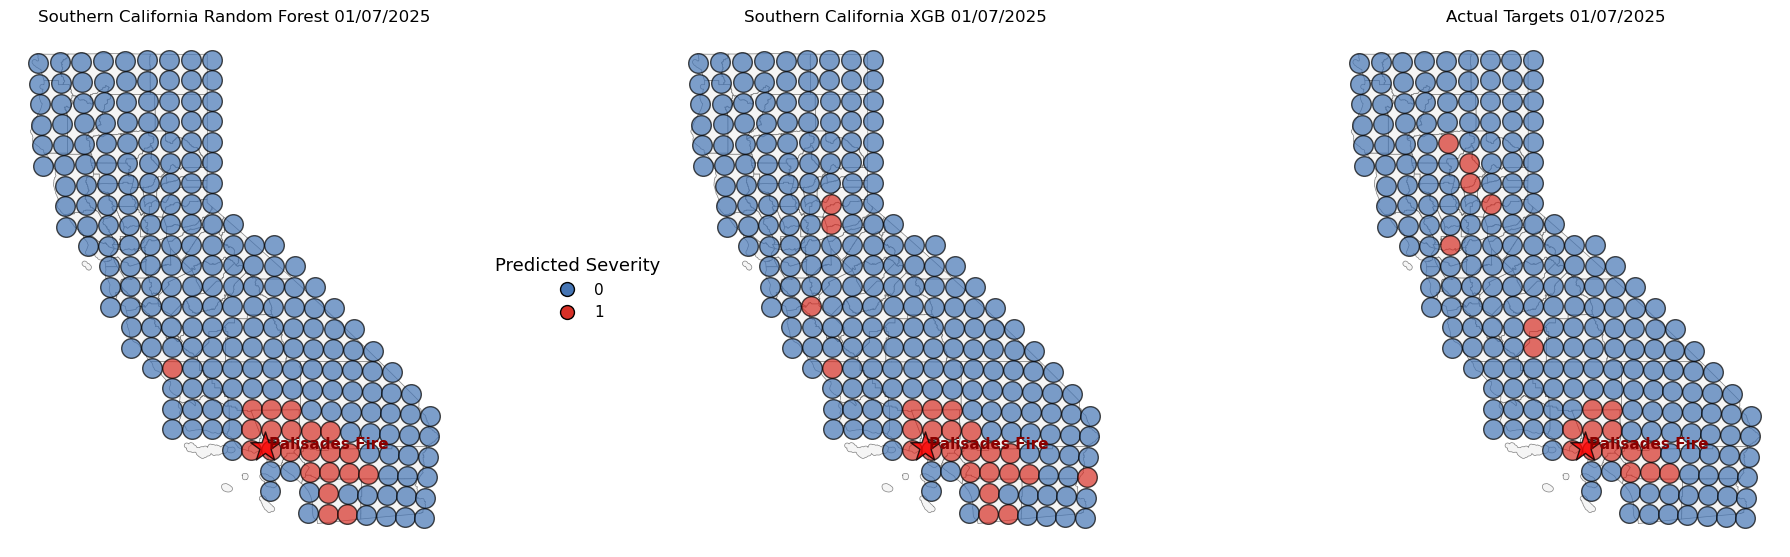
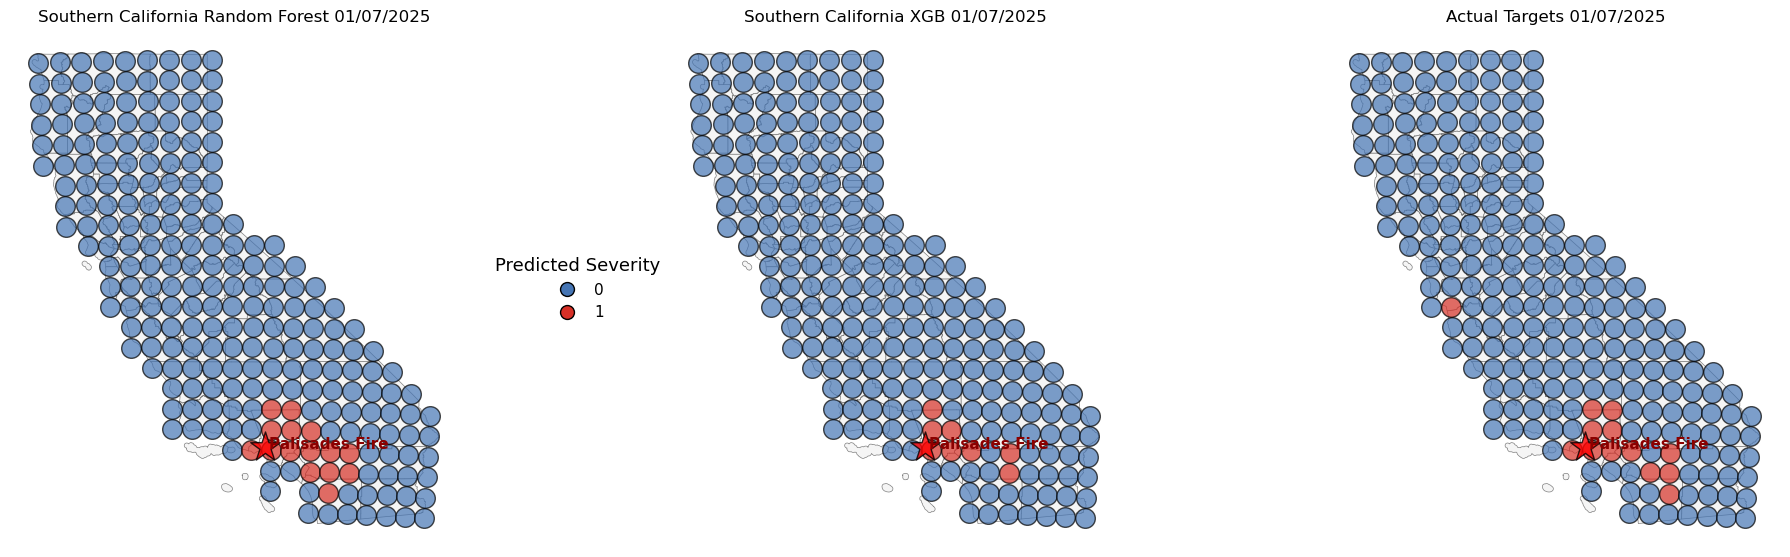
updating notes

diff --git a/README.md b/README.md
@@ -485,9 +485,9 @@ The sampling grid serves as the spatial framework for analysis. Each grid captur
 > - [*notebooks/05_Subset_and_Split.ipynb*](https://github.com/dustinlit/California_Fire_Severity/blob/main/notebooks/05_%20Subset_and_Split.ipynb)
 > - [*notebooks/06_A_Fire_Ignition_Tuning.ipynb*](https://github.com/dustinlit/California_Fire_Severity/blob/main/notebooks/06_A_Fire_Ignition_Tuning.ipynb)
 
-To avoid temporal leakage, tuning is performed with a temporal split of data. Automatic functions use the macro (F1) to adjust for the best model performance. Ultimately, parameters are selected that best balance model and hardware performance.
+To avoid temporal leakage, tuning is performed with a temporal split of data. Automatic functions use the macro (F1) metric to adjust for the best model performance. Ultimately, parameters are selected that best balance model and hardware performance.
 
-<figure> <img src="reports/readme/xgb_learning_rate.png" alt="A description" width="400"> <figcaption><em>Figure 4: XGBoost learning rate hypertuning</em></figcaption> </figure>
+<figure> <img src="reports/readme/xgb_learning_rate.png" alt="A description" width="400"> <figcaption><em>Figure 4: XGBoost learning rate hypertuning results</em></figcaption> </figure>
 
 **Models tested:**
 - `Random Forest` from scikit-learn
@@ -502,24 +502,25 @@ To avoid temporal leakage, tuning is performed with a temporal split of data. Au
 
 **Key Findings:** 
 - the models are quite good at reliably identifying **low‑risk** grids, largely because the patterns associated with 'no wildfire activity' are abundant, consistent, and easy for algorithms to learn.
+- XGBoost currently overfitting the target value.
 
-<figure> <img src="reports/readme/ignition_evaluation.png" alt="A description" width="600"> <figcaption><em>Figure 5: Model metrics of test set</em></figcaption> </figure>
+<figure> <img src="reports/readme/ignition_evaluation.png" alt="A description" width="800"> <figcaption><em>Figure 5: Model metrics of test set</em></figcaption> </figure>
 
 ## SHAP Feature Influence
 *Located in:* 
 > - [*notebooks/08_B_Fire_Ignition_Feature_Ablation.ipynb*](https://github.com/dustinlit/California_Fire_Severity/blob/main/notebooks/08_B_Fire_Ignition_Feature_Ablation.ipynb)
 
-<figure> <img src="reports/readme/ignition_features.png" alt="A description" width="600"> <figcaption><em>Figure 6: Top feature importance rankings</em></figcaption> </figure>
+<figure> <img src="reports/readme/ignition_features.png" alt="A description" width="600"> <figcaption><em>Figure 6: Top feature importance rankings by model</em></figcaption> </figure>
 
 
 ## Case Study Visualization
 
 ### **Wildfire *Ignition* Predictions:**
 
-<figure> <img src="reports/readme/ignition_predictions.png" alt="A description" width="600"> <figcaption><em>Figure 7: Tree model wildfire ignition predictions compared to target results</em></figcaption> </figure>
+<figure> <img src="reports/readme/ignition_predictions.png" alt="A description" width="1000"> <figcaption><em>Figure 7: Tree model wildfire ignition predictions compared to target results on 01/07/2025</em></figcaption> </figure>
 
-- **Wildland Urban Interface**, **Humans**, **Infrastructure** features contribute the most in both fire ignition models.
-- **1000-hour Dead Fuel Moisture** is the highest performing weather feature. Dryness is the driving factor for ignition.
+- The intersection of **Wildland Urban Interface** and **Infrastructure** features contribute the most in both fire ignition models.
+- **1000-hour Dead Fuel Moisture** is the highest performing weather feature. Long term dryness is the main driving factor for ignition.
 
 
 ## Limitations
@@ -536,18 +537,38 @@ While all core features were retrieved from official sources, some engineered an
 ### Personal Project
 This project is a personally developed learning effort and may contain statistical inaccuracies. While every attempt has been made to apply sound analytical practices, there are inevitably areas where my current knowledge is still developing. The goal is to refine these skills and improve methodological rigor as the project evolves.
 
-## Philosophy
+## Challenges
+### Heavy Class Imbalance 
+Even in California, total days with wildfire events are rare compared to the number of days with no significant events. The low risk class composes the overwhelming majority of the total data points. Ignition events only compose **7%** of the 600,000+ grid readings.
+### Messy Real World Data 
+You don’t have to get far from clean, well‑curated datasets before you run into the real messiness of actual data. Agencies do solid work organizing what they need, but connecting all those pieces is another challenge. You end up dealing with big gaps, missing or low‑resolution spatial info, and the occasional random error that throws everything off. Some days it feels like a data rodeo and sometimes the bull wins.
+### Fire Complexity
+Large, damaging fires can burn for days and grow at very different rates, and many datasets don’t consistently track containment times. Because of that, relying only on ignition dates makes it difficult to accurately model factors like fire reignition, fires spreading, and how much damage they ultimately cause.
+### Spatial Resolution
+My current hardware limits how finely I can analyze the state. As a result, some variables, like slope and wind speed, get averaged out or flattened, leading to overgeneralization and loss of important detail.
+### Identifying and Preventing ***Data Leakage***:
+I chalk this lesson up to being a classic rookie mistake. I initially believed I understood how to avoid data leaks, but I have learned that they can be subtle and deceptive. Often, moments where i feel 'finally nailed it' are followed by the sudden realization that there is liekly an apparent leak hiding somewhere. As a result, I now approach any sudden performance bumps with caution and double check any feature engineering or introduction of new data.
+### Maintaining a Cohesive Project Structure
+This project began as a simple Jupyter notebook page, soon expanded to five, and has now grown into 12+ modules, 4+ appendices, and multiple source files. As the project scales, handling and passing data throughout these modules has become more complex and sometimes bugs or changes became more difficult to trace and more time consuming. Consistent organization throughout modules along with clear communication of inputs and outputs are now essential to keeping the structure manageable and growing.
+### Learning the Proper time to Document and Analyze Variables
+There is no argument that documentation and analysis are crucial elements of a project. Ultimately, I have spent hours documenting variables and structures that appeared complete, only to have to be completely rewritten or revised. I now document with simple headers and critical notes only, reserving more detailed documentation for when a module is closer to completion. This approach ensures I maintain clarity and speed throughout development.
+
+## Potential Applications
+- **Targeted deployment of firefighting and prevention resources** When conditions indicate a higher likelihood of large or damaging wildfires, agencies can focus personnel and equipment in the areas that need them most.
+- **Identifying high‑risk wildland–urban interface development zones** By estimating the potential financial impact of wildfire damage, proposed building sites can be compared and evaluated more effectively.
+
+## Final Thoughts
 ### Project Structure
-I am attempting to structure this project in a way that mirrors the organization of a book. Each module is intended to function as a chapter, grouped by its high level purpose, for example, modeling fire damage, cleaning fire spread data, or engineering features.\
+I am attempting to structure the code for this project in a way that mirrors the organization of a book. Each module is intended to function as a chapter, grouped by its high level purpose, for example, modeling fire damage, cleaning fire spread data, or engineering features.\
 <br>
 Within each chapter, I break each coding section into *paragraphs.* Each paragraph is a small, self contained operation with a clear purpose. These typically include a short markdown formatted header and high level explanation, with one to three code blocks. If a paragraph begins to grow too long, that’s a is signal to rethink the structure and break it into smaller, more focused pieces.\
 <br>
-The idea of this approach is to keep the entire codebase browsable and maintain a narrative structure. If I want to revisit how I compute lagged features, for example, I can go straight to the feature engineering chapter and find the relevant paragraph quickly.
+The purpose of this approach is to keep the entire codebase browsable and maintain a narrative structure. If I want to revisit how I compute lagged features, for example, I can go straight to the feature engineering chapter and find the relevant paragraph quickly.
 
 ### Functionality Over Speed
 Performance optimization is not my priority at this stage. My goal is to build the most accurate and conceptually sound wildfire risk model I can, and to use this project as a learning environment. The focus is on clarity, correctness, and understanding rather than optimizations.\
 <br>
-One of my major learning goals is to incorporate vectorized operations wherever possible. Python’s strength with large datasets comes from vectorization, and I want to grow more comfortable working with it. I still rely on loops in many places because that’s where my foundational programming stems from, but I occasionally take time to rewrite a loop in vectorized form to deepen my understanding. I don’t replace the original version until I fully grasp what the vectorized version is doing.\
+One of my major learning goals is to incorporate vectorized operations wherever possible. Python’s strength with large datasets comes from vectorization, and I want to grow more comfortable working with it. I still rely on loops in many places because that’s where my foundational programming stems from, but I occasionally take time to rewrite a loop in vectorized form to deepen my understanding.\
 <br>
 This is why some parts of the project, especially the large buffered spatial joins, remain slow. Two modules currently account for about half of the total runtime. While I know there are more efficient approaches, I am intentionally leaving them as is until I understand the alternatives well enough to implement them.
 
@@ -556,27 +577,6 @@ I am not a formal climate scientist and wildfire modeling involves many potentia
 
 ### Long Term Vision
 This project began as a portfolio piece, but it has grown into something more personal. I’m genuinely interested in wildfire modeling, and I want to continue improving the accuracy and sophistication of the models as my skills grow. My intention is for this project to evolve alongside me, a long term research effort rather than a static artifact.
-
-## Challenges
-### Project Challenges
-#### Heavy Class Imbalance 
-Damaging wildfire events are rare compared to days with no significant events. The low risk class composes the overwhelming majority of the total data points. Ignition events only compose **7** of grids.
-#### Messy Real World Data 
-You don’t have to get far from clean, well‑curated datasets before you run into the real messiness of actual data. Agencies do solid work organizing what they need, but connecting all those pieces is another challenge. You end up dealing with big gaps, missing or low‑resolution spatial info, and the occasional random error that throws everything off. Some days it feels like a data rodeo and sometimes the bull wins.
-#### Fire Complexity
-Large, damaging fires can burn for days and grow at very different rates, and many datasets don’t consistently track containment times. Because of that, relying only on ignition dates makes it difficult to accurately model when fires spread or how much damage they ultimately cause.
-#### Spatial Resolution
-My current hardware limits how finely I can analyze the state. As a result, some variables, like slope and wind speed, get averaged out or flattened, leading to overgeneralization and loss of important detail.
-#### Identifying and Preventing ***Data Leakage***:
-I chalk this lesson up to being a classic rookie mistake. I initially believed I understood how to avoid data leaks, but I have learned that they can be subtle and deceptive. Often, moments where i feel 'finally nailed it' are followed by the sudden realization that there is liekly an apparent leak hiding somewhere. As a result, I now approach any sudden performance bumps with caution and double check any feature engineering or introduction of new data.
-#### Maintaining a Cohesive Project Structure
-This project began as a simple Jupyter notebook page, soon expanded to five, and has now grown into 12+ modules, 4+ appendices, and multiple source files. As the project scales, handling and passing data throughout these modules has become more complex and sometimes bugs or changes became more difficult to trace and more time consuming. Consistent organization throughout modules along with clear communication of inputs and outputs are now essential to keeping the structure manageable and growing.
-#### Learning the Proper time to Document and Analyze Variables
-There is no argument that documentation and analysis are crucial parts to a project. Ultimately, I have spent many hours documenting variables and structures that appeared complete, only to have to be completely rewritten or revised. I now document with simple headers and critical notes only, reserving more detailed documentation for when a module is closer to completion. This approach ensures I maintain clarity and speed throughout development.
-
-## Potential Applications
-- **Targeted deployment of firefighting and prevention resources** When conditions indicate a higher likelihood of large or damaging wildfires, agencies can focus personnel and equipment in the areas that need them most.
-- **Identifying high‑risk wildland–urban interface development zones** By estimating the potential financial impact of wildfire damage, proposed building sites can be compared and evaluated more effectively.
 
 ## Next Steps / Potential Improvements
 - Hot Spot analysis of daily NDVI raster data (in process)
@@ -588,9 +588,10 @@ There is no argument that documentation and analysis are crucial parts to a proj
 
 ## Changelog
 ### Version 5.0 Changelog
-> 1. Discovered and fixed a major temporal leak, affecting performance of all three models. Trimmed project down to **Fire Ignition** only.
-> 2. Trimmed variables being analyzed to build a more focused model.
+> 1. Discovered and fixed a major temporal leak, affecting performance of all three targets. As a result, I trimmed the project down to **Fire Ignition** only, with plans to gather better fire data for spread and damage models in the future.
+> 2. Trimmed variables being modeled to both speed up performance and construct a more ignition focused model.
 > 3. Expanded SHAP and feature ablation sections.
+
 ### Version 4.0 Changelog
 > 1. Seperated targets into three main models, **Fire Ignition**, **Fire Spread**, and **Fire Damage**.
 > 2. New Datasets
